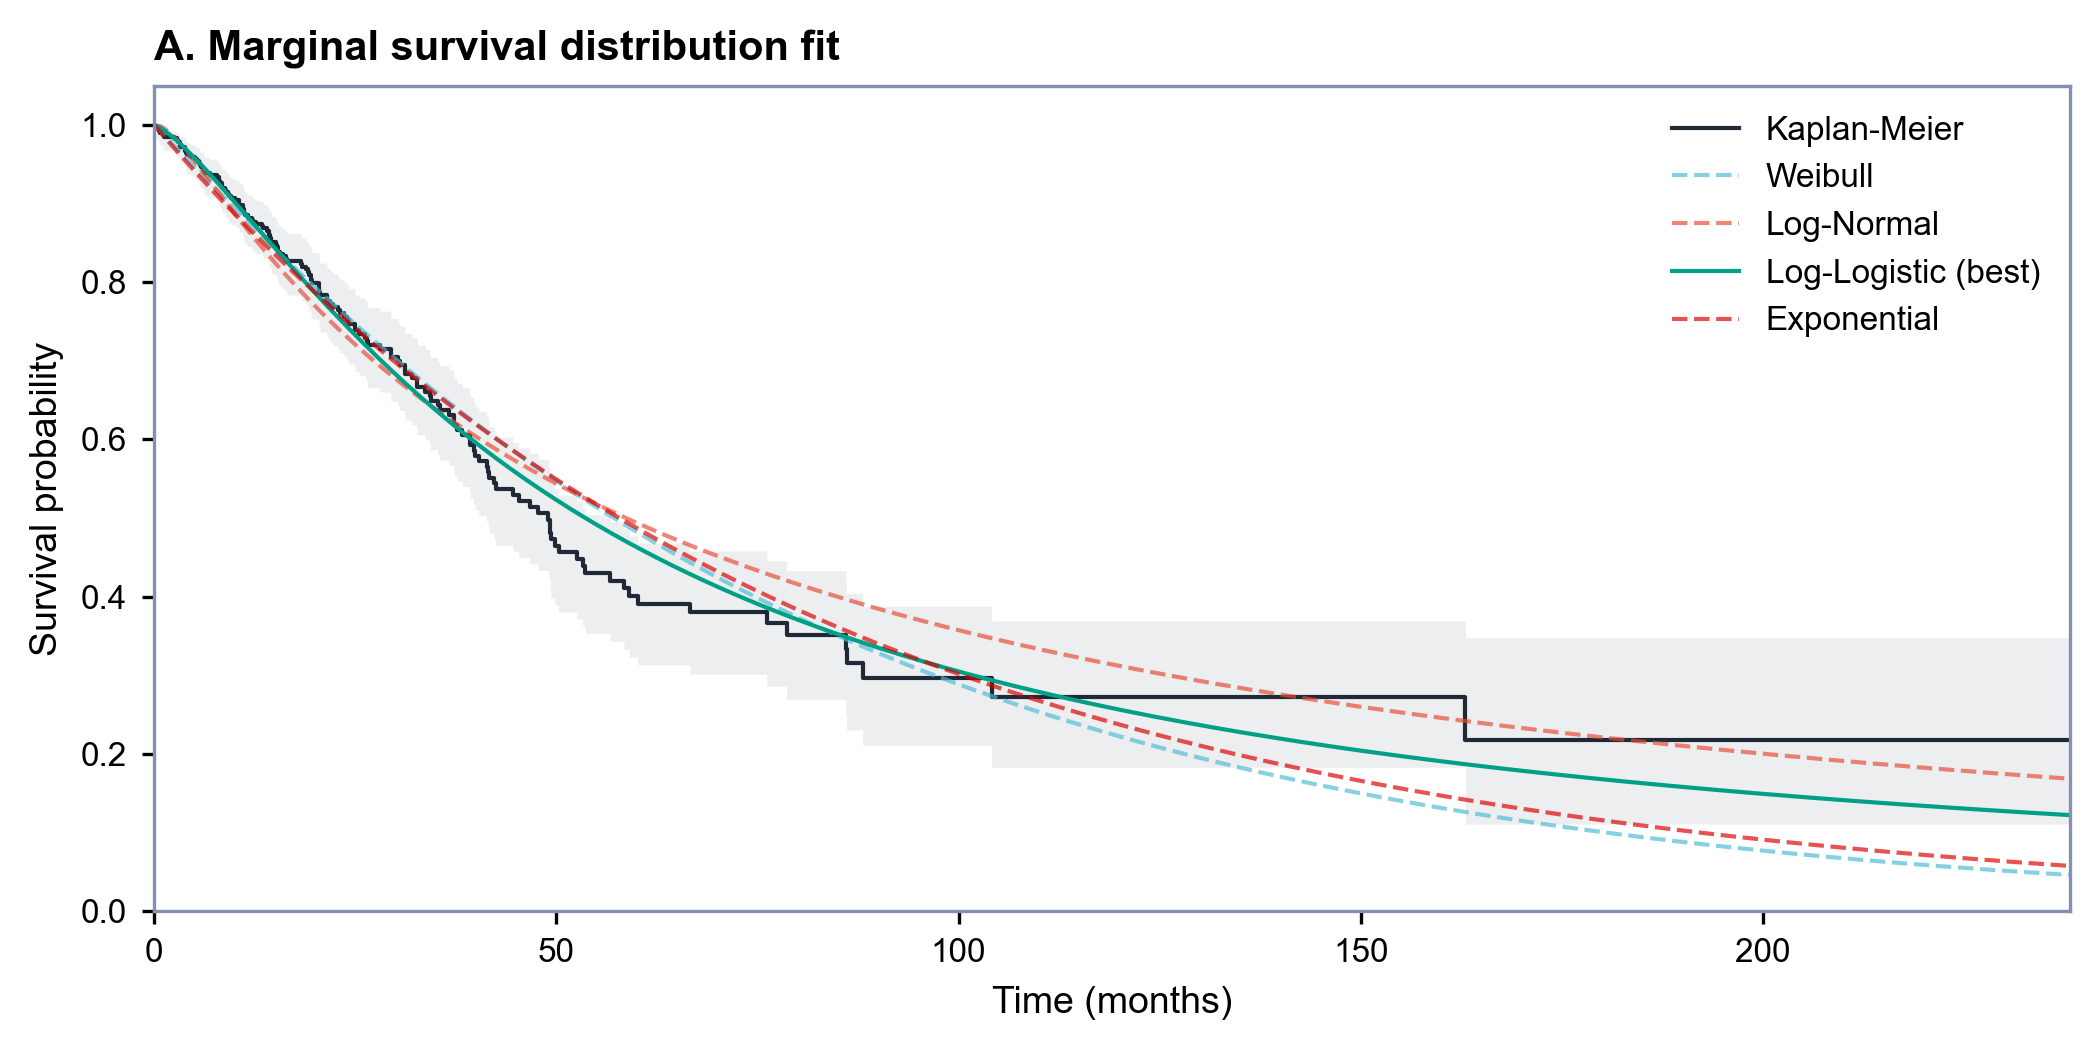
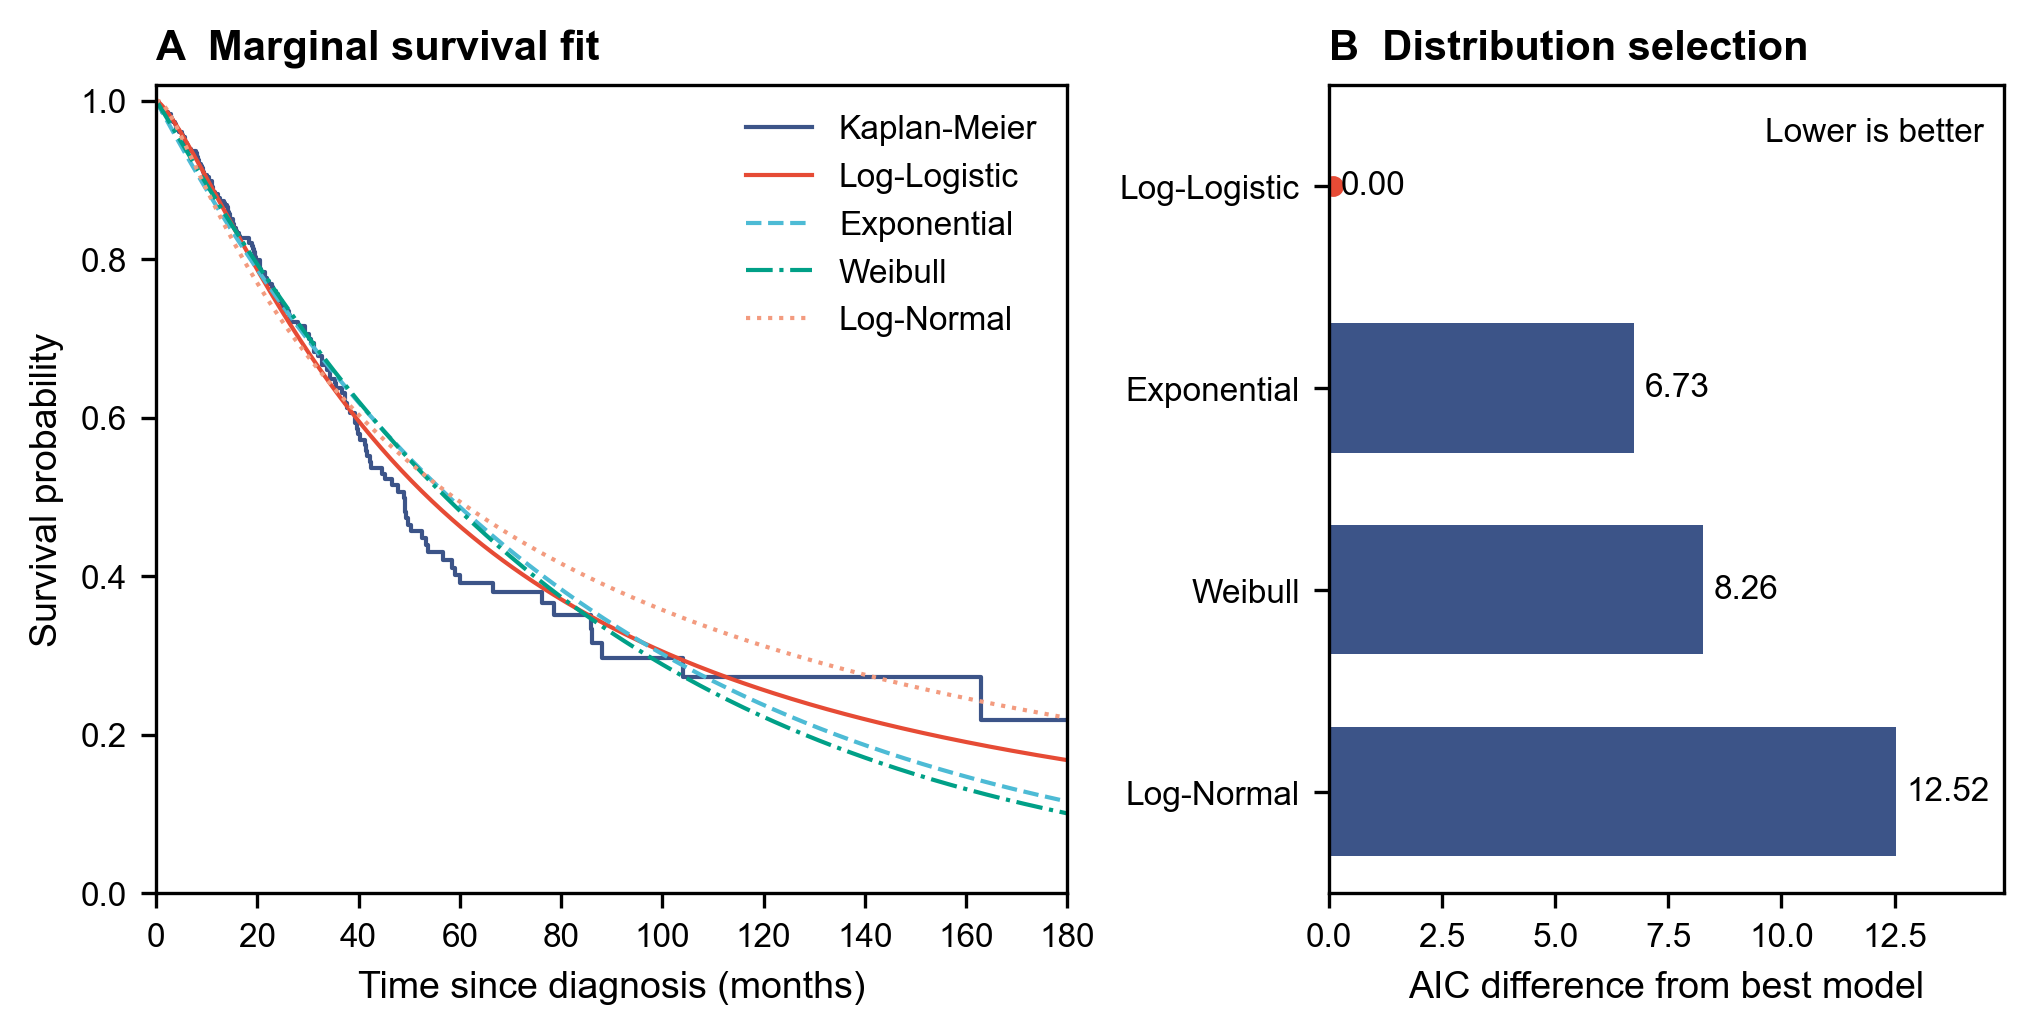
Refine README survival evaluation figures

Changed region(s): [[0.0, 0.0309, 0.9912, 0.9903], [0.5575, 0.3095, 0.8363, 0.4642], [0.5575, 0.1547, 0.6814, 0.2166]]

diff --git a/README.md b/README.md
@@ -91,21 +91,21 @@ All figures below are rendered from `tcga_luad_app_bundle.pkl`. No raw clinical 
 
 #### Discrimination and prediction error
 
-Panel A compares apparent training C-index with held-out test C-index and its bootstrap interval. Panel B shows the IPCW-corrected test Brier score over time, including a Kaplan-Meier null prediction. Panel C shows held-out cumulative/dynamic AUC.
+Panel A compares apparent training C-index with held-out test C-index and its bootstrap interval. Panel B compares train/test integrated Brier scores. Panel C shows the IPCW-corrected test Brier score over time, including a Kaplan-Meier null prediction. Panel D shows held-out cumulative/dynamic AUC.
 
-![Train and test concordance, test Brier score, and time-dependent AUC](assets/model_performance.png)
+![Train and test concordance and integrated Brier score with test Brier score and time-dependent AUC](assets/model_performance.png)
 
 #### Time-specific calibration
 
-Predicted survival is compared with Kaplan-Meier observed survival across five test-set risk groups at 12, 24, 36, and 60 months. These curves are descriptive: the test set contains 102 patients, and sparse late follow-up makes the 60-month estimates especially unstable.
+Predicted mortality risk is compared with Kaplan-Meier observed risk across five test-set risk groups at 12, 24, 36, and 60 months. These curves are descriptive: the test set contains 102 patients, and sparse late follow-up makes the 60-month estimates especially unstable.
 
 ![Cox PH and Log-Logistic AFT calibration at four survival horizons](assets/model_calibration.png)
 
 #### Parametric distribution selection
 
-The training-set Kaplan-Meier curve is compared with four marginal parametric survival distributions. Log-Logistic had the lowest AIC (1579.1) and was therefore used for the covariate-adjusted AFT model.
+Panel A compares the training-set Kaplan-Meier curve with four marginal parametric survival distributions. Panel B shows each candidate's AIC difference from the best fit. Log-Logistic had the lowest AIC (1579.1) and was therefore used for the covariate-adjusted AFT model.
 
-![Kaplan-Meier curve and fitted parametric survival distributions](assets/marginal_survival_fit.png)
+![Kaplan-Meier curve, fitted parametric survival distributions, and AIC comparison](assets/marginal_survival_fit.png)
 
 ## Run locally
 